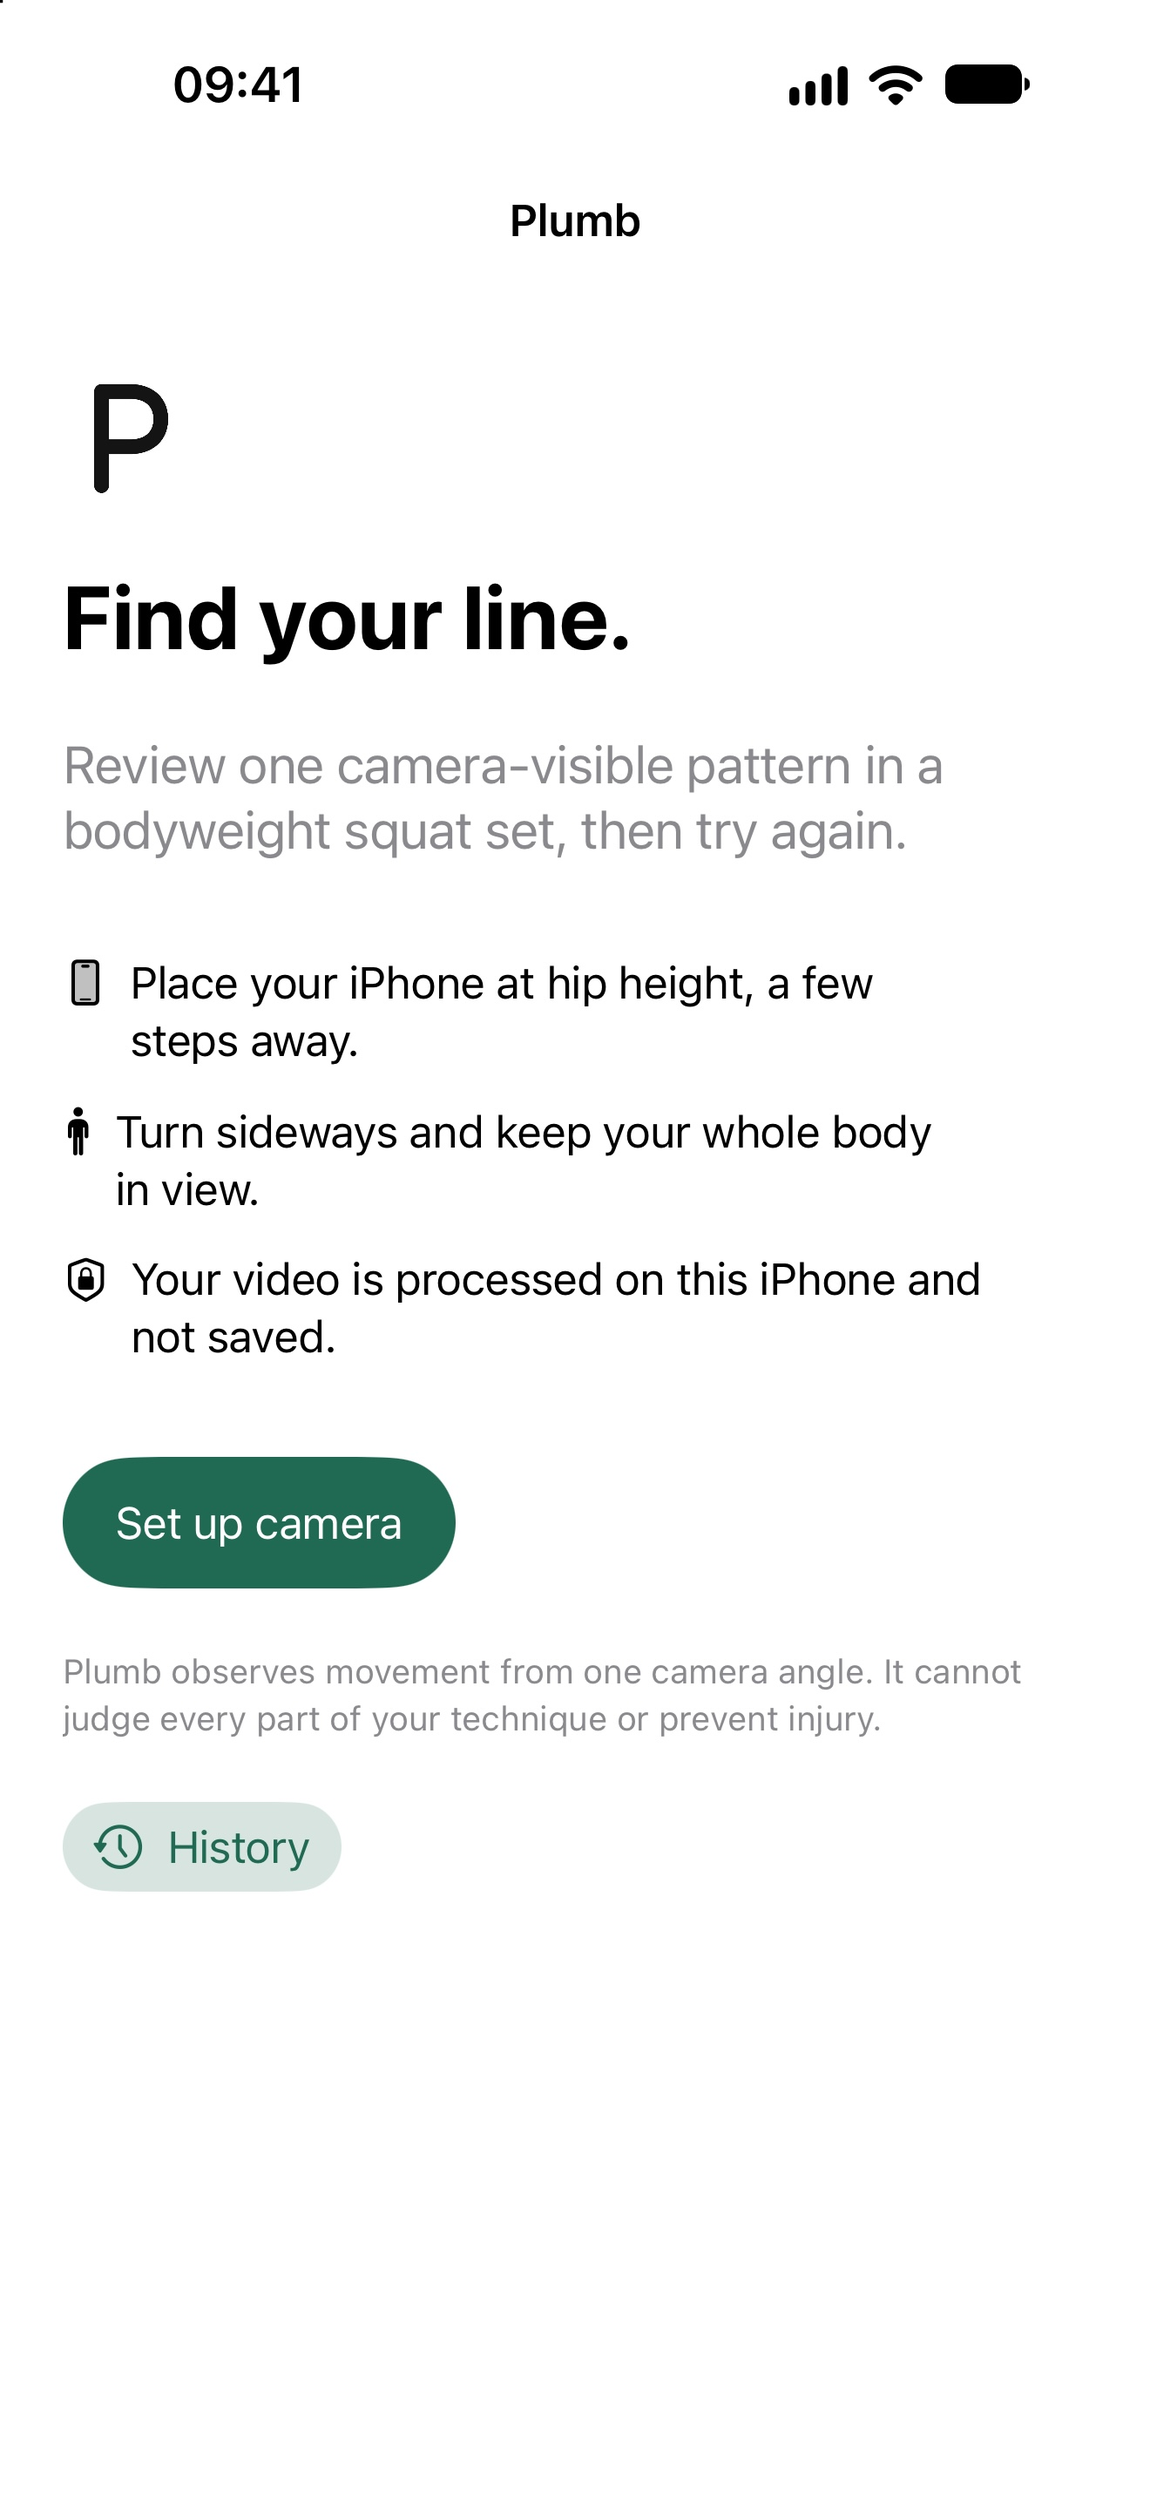
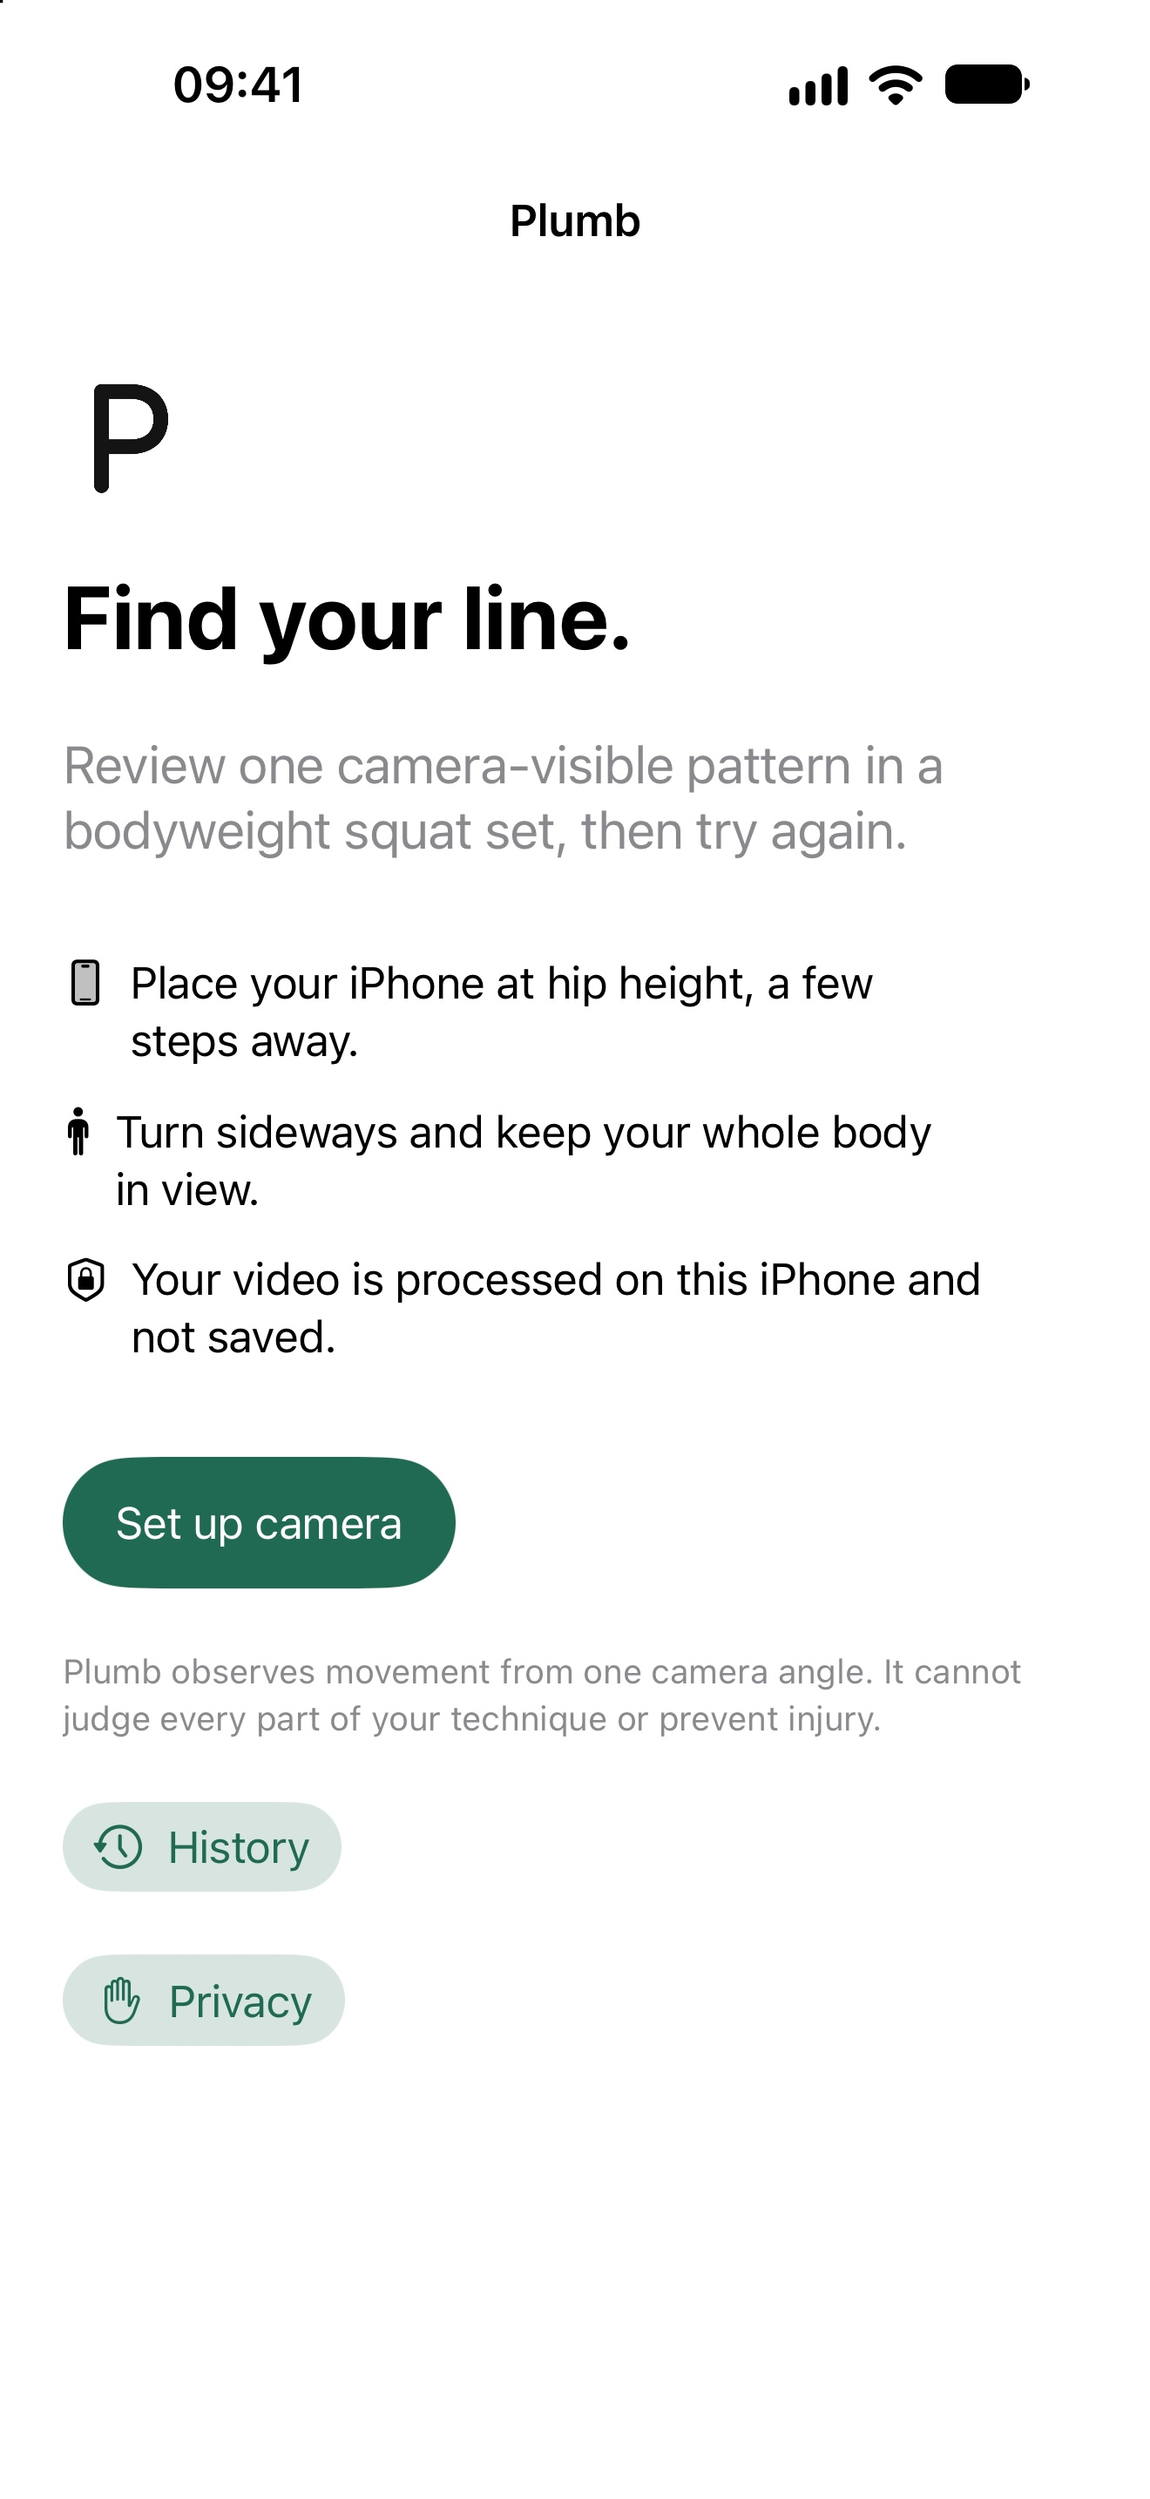
Add in-app privacy summary and App Privacy draft

Changed region(s): [[0.0311, 0.7758, 0.3106, 0.8379]]

diff --git a/Plumb/Plumb/ContentView.swift b/Plumb/Plumb/ContentView.swift
@@ -101,10 +101,34 @@ struct ContentView: View {
                     Label("History", systemImage: "clock.arrow.circlepath")
                 }
                 .buttonStyle(.bordered)
+                NavigationLink {
+                    privacyPage
+                } label: {
+                    Label("Privacy", systemImage: "hand.raised")
+                }
+                .buttonStyle(.bordered)
             }
             .frame(maxWidth: .infinity, alignment: .leading)
             .padding(24)
         }
+    }
+
+    private var privacyPage: some View {
+        List {
+            Section("Camera") {
+                Text("Video is processed on this iPhone and never saved.")
+                Text("Plumb uses the camera to measure a bodyweight squat from the side. Camera frames and pose points are not sent to Plumb.")
+            }
+            Section("Saved results") {
+                Text("Measured set summaries are saved on this iPhone so you can review previous sets.")
+                Text("Saved summaries may be included in your device backup.")
+                Text("Delete saved sessions in History.")
+            }
+            Section("Optional explanation") {
+                Text("On supported iPhones, Apple's on-device model can explain a measured comparison. The camera video is never given to the model.")
+            }
+        }
+        .navigationTitle("Privacy")
     }
 
     private var capture: some View {

diff --git a/Plumb/PlumbUITests/WorkoutFlowUITests.swift b/Plumb/PlumbUITests/WorkoutFlowUITests.swift
@@ -2,6 +2,17 @@ import XCTest
 
 final class WorkoutFlowUITests: XCTestCase {
     @MainActor
+    func testPrivacySummaryIsReachableFromSetup() {
+        let app = XCUIApplication()
+        app.launch()
+        app.buttons["Privacy"].tap()
+        XCTAssertTrue(app.navigationBars["Privacy"].exists)
+        XCTAssertTrue(app.staticTexts["Video is processed on this iPhone and never saved."].exists)
+        XCTAssertTrue(app.staticTexts["Saved summaries may be included in your device backup."].exists)
+        XCTAssertTrue(app.staticTexts["Delete saved sessions in History."].exists)
+    }
+
+    @MainActor
     func testDemoSetShowsMeasuredResultAndRetake() {
         let app = XCUIApplication()
         app.launchArguments.append("-plumb-ui-demo")

diff --git a/docs/release/app-privacy-answers.md b/docs/release/app-privacy-answers.md
@@ -1,0 +1,28 @@
+# Plumb 1.0 App Privacy answers — source-backed draft
+
+**Audited against the 11 October 2026 iPhone source and unsigned archive. Not entered or published in App Store Connect.** Recheck the exact signed upload before the Account Holder, Admin, or App Manager saves and publishes these answers.
+
+## Proposed App Store Connect selection
+
+Choose **“No, we do not collect data from this app”** for the current Plumb 1.0 build, if the final upload retains the data flows below. Apple defines collection as transmitting data off the device so the developer or a third-party partner can access it beyond servicing a request. Apple says on-device-only processing is not collected for this label. This is an inference from [Apple's App Privacy Details definitions](https://developer.apple.com/app-store/app-privacy-details/) and the current code, not a published App Store answer.
+
+| Data | Current handling | Developer access |
+| --- | --- | --- |
+| Camera frames | AVFoundation delivers frames to Vision on the iPhone; no movie or frame file is written | None through the app |
+| Pose points and analysis | Held in memory for the set; used for rep count and one provisional cue | None through the app |
+| Set summaries and feedback | JSON in the app's local Application Support directory; removable in History | None through the app |
+| Optional recap | Apple's Foundation Models receives structured comparison facts on eligible devices; no Plumb server or third-party model endpoint | None through the app |
+| Validation timing | A local result-screen readout only when Xcode launches with `-plumb-validation`; not saved or uploaded | None through the app |
+
+The app currently has no account, analytics, advertising, support form, cloud sync, HealthKit, microphone capture, or third-party SDK. A source search found no `URLSession`, `URLRequest`, Network framework connection, web view, or upload path. The Xcode project has no package dependency or data-sharing entitlement. The unsigned archive contains the app binary and Apple asset catalog without a bundled data-collection SDK.
+
+Local Application Support data may enter an iPhone backup if the person enables backup. Plumb neither operates nor accesses that backup; the [privacy policy draft](privacy-policy.md) explains this. Apple's App Privacy guidance says developers are not responsible for disclosing data collected by Apple itself. Confirm this treatment against the final Apple account configuration before publishing the label.
+
+## Required final checks
+
+1. Inspect the exact signed 1.0 upload for added SDKs, network calls, analytics, crash reporting, remote model use, or changed storage. Change the answer if any developer or third-party partner gains off-device access to fitness, camera, usage, or diagnostic data.
+2. Verify normal and offline physical-iPhone behavior, including the optional Foundation Models fallback. A simulator source audit does not prove physical-device network behavior.
+3. Confirm the public HTTPS privacy-policy URL, publisher name, and support contact. Apple requires a privacy policy URL for iOS even when the app selects “Data Not Collected.” See [Manage App Privacy](https://developer.apple.com/help/app-store-connect/manage-app-information/manage-app-privacy/).
+4. Have the authorized App Store Connect role review the product-page preview and publish the answers only after the uploaded build matches this audit. Record the actual published state in [the submission log](app-store-submission.md).
+
+Separately consented research recordings for product validation are outside the app's 1.0 data flow and must follow the [validation protocol](../validation/squat-v1-protocol.md). If Plumb later uploads clips, syncs history, adds support messaging, or adds analytics, re-audit and update the App Privacy answers before release.

diff --git a/docs/release/app-store-submission.md b/docs/release/app-store-submission.md
@@ -14,15 +14,15 @@
 | Local signing identities | One Apple Development identity is present; no Apple Distribution identity was found on 11 October |
 | Connected physical iPhone | iPhone 16 Pro Max appears in Xcode's device list but was **unavailable** on 11 October |
 | Repository | Public GitHub repository, `main` branch |
-| Test status | 54 iOS 27 simulator tests passed; unsigned iPhone Release build and archive succeeded; physical validation pending |
+| Test status | 55 iOS 27 simulator tests passed; unsigned iPhone Release build and archive succeeded; physical validation pending |
 
 James can purchase or confirm the Apple Developer Program membership. The team must then verify the Account Holder can enter App Store Connect, that the bundle ID belongs to the team, and that distribution signing works. A configured Xcode team ID alone does not establish these conditions.
 
 ## Required before archive/upload
 
 1. Finish the physical iPhone checks and holdout/expert review in [`../validation/squat-v1-protocol.md`](../validation/squat-v1-protocol.md). Narrow any unvalidated claims in the app and listing. Review actual Foundation Models output on an eligible device; if unavailable, keep the deterministic fallback.
-2. Confirm the publisher name and public support email. Host and check public **HTTPS** support and privacy policy pages based on [`support.md`](support.md) and [`privacy-policy.md`](privacy-policy.md). The Markdown drafts alone are not App Store URLs.
-3. Audit the final binary's data flows and complete App Privacy answers. The current code has no app server, third-party SDK, account, analytics, or cloud sync, but the final answer must match the exact uploaded build. Apple requires a privacy policy URL and app privacy responses for iOS: [App privacy help](https://developer.apple.com/help/app-store-connect/manage-app-information/manage-app-privacy).
+2. Confirm the publisher name and public support email. Host and check public **HTTPS** support and privacy policy pages based on [`support.md`](support.md) and [`privacy-policy.md`](privacy-policy.md). The app now has a native Privacy summary on setup; add and verify its link to the final public policy. The Markdown drafts and in-app summary alone are not App Store URLs.
+3. Audit the final binary's data flows and complete App Privacy answers. A [source-backed answer draft](app-privacy-answers.md) proposes “Data Not Collected” for the current build; the final answer must match the exact uploaded binary and account configuration. Apple requires a privacy policy URL and app privacy responses for iOS: [App privacy help](https://developer.apple.com/help/app-store-connect/manage-app-information/manage-app-privacy).
 4. Capture truthful screenshots from the implemented iPhone app. A [setup-screen candidate](screenshots/iphone-18-pro-max-setup.jpg) now exists at an accepted iPhone 18 Pro Max size, with [capture provenance](screenshots/README.md). It was taken from the normal simulator app, not a physical camera run. Final result and comparison screenshots remain pending physical-device validation. Do not pass the labeled synthetic demo feed off as a real camera workout. See [screenshot specifications](https://developer.apple.com/help/app-store-connect/reference/app-information/screenshot-specifications).
 5. Verify a Release build, signing, first-launch permission, denial/recovery, set capture, retake, second set, comparison, local deletion, background interruption, offline behavior, large text, VoiceOver order, and no placeholder claims. The 11 October unsigned archive contains the expected bundle ID, version, camera permission text, and icon assets; an accidentally bundled team Git guide was removed from the app target. The unsigned archive cannot be uploaded as a distribution build.
 

diff --git a/docs/superpowers/plans/2026-10-11-plumb-iphone-squat-mvp.md b/docs/superpowers/plans/2026-10-11-plumb-iphone-squat-mvp.md
@@ -169,8 +169,8 @@ Provisional `SquatRubric.v1` starting values: required joint confidence ≥0.6 o
 **Interfaces:** A release candidate has a stable bundle ID and version/build number, iPhone-only screenshots of real implemented screens, support and privacy URLs, app privacy answers, review notes explaining camera-only analysis and any optional AI wording, and an archived/uploaded build. Account access and signing are external dependencies.
 
 - [ ] Confirm Apple Developer Program membership, App Store Connect role, signing team, bundle ID ownership, and a physical iOS 27 test iPhone early. Xcode team ID is configured, but membership/distribution rights are unconfirmed; James indicated he can purchase the membership. Physical iPhone 16 Pro Max is listed as unavailable to Xcode.
-- [ ] Draft truthful listing copy and capture screenshots only from implemented screens. Listing, support, privacy, and App Review note drafts now exist in `docs/release`; a normal-app setup screenshot has been captured from an iOS 27 iPhone 18 Pro Max simulator. Result/comparison screenshots, public HTTPS URLs, publisher/contact fields, and final App Privacy answers remain open.
-- [ ] Run a Release build and physical-device smoke pass: first launch, permission denied/recovered, set capture, retake, comparison, delete, no-network fallback, and background interruption. An unsigned iPhone Release build and archive succeed, the archive contains expected app metadata/icon assets without team-only documents, and 54 simulator tests pass; physical-device smoke pass remains open.
+- [ ] Draft truthful listing copy and capture screenshots only from implemented screens. Listing, support, privacy, App Review notes, and a source-backed App Privacy answer draft now exist in `docs/release`; a normal-app setup screenshot has been captured from an iOS 27 iPhone 18 Pro Max simulator. Result/comparison screenshots, public HTTPS URLs, publisher/contact fields, and final App Privacy publication remain open.
+- [ ] Run a Release build and physical-device smoke pass: first launch, permission denied/recovered, set capture, retake, comparison, delete, no-network fallback, and background interruption. An unsigned iPhone Release build and archive succeed, the archive contains expected app metadata/icon assets without team-only documents, and 55 simulator tests pass; physical-device smoke pass remains open.
 - [ ] Archive, upload, and select the build in App Store Connect; complete metadata and review notes. Record the actual status: uploaded, ready for review, submitted, or approved. Do not describe an upload as App Review approval. Submission is a team/account action and may require the account holder's credentials.
 
 ## Subsequent plans, after the iPhone gate

diff --git a/docs/release/screenshots/README.md b/docs/release/screenshots/README.md
@@ -1,5 +1,5 @@
 # Plumb App Store screenshot candidates
 
-`iphone-18-pro-max-setup.jpg` is an uncomposited capture of the implemented setup screen from the iPhone 18 Pro Max simulator on iOS 27.0 (11 October 2026). It reflects the app source committed alongside this screenshot. The app was launched normally, without `-plumb-ui-demo`; the status bar was set to 9:41 with full signal and battery for presentation. The JPEG is 1320 × 2868 pixels, has no alpha channel, and has been visually checked at full size. Apple lists this as an accepted large Dynamic Island iPhone screenshot size in its [screenshot specifications](https://developer.apple.com/help/app-store-connect/reference/app-information/screenshot-specifications).
+`iphone-18-pro-max-setup.jpg` is an uncomposited capture of the implemented setup screen, including its History and Privacy links, from the iPhone 18 Pro Max simulator on iOS 27.0 (11 October 2026). It reflects the app source committed alongside this screenshot. The app was launched normally, without `-plumb-ui-demo`; the status bar was set to 9:41 with full signal and battery for presentation. The JPEG is 1320 × 2868 pixels, has no alpha channel, and has been visually checked at full size. Apple lists this as an accepted large Dynamic Island iPhone screenshot size in its [screenshot specifications](https://developer.apple.com/help/app-store-connect/reference/app-information/screenshot-specifications).
 
 This is a **draft candidate**, not evidence of working physical-camera capture. Capture the result and comparison screens from the final implemented release candidate after the physical-device and specialist checks. Do not use the scripted UI demo input or the `-plumb-validation` timing readout in App Store screenshots.

diff --git a/README.md b/README.md
@@ -16,6 +16,7 @@ Project for the October 2026 Build Challenge: Unaite, MWM, Apple & ⌘+F.
 - [`docs/validation/squat-v1-protocol.md`](docs/validation/squat-v1-protocol.md): consent, physical-device test, annotation, and claim gates
 - [`docs/validation/squat-v1-results.md`](docs/validation/squat-v1-results.md): actual results status; no real sets collected yet
 - [`docs/release/app-store-submission.md`](docs/release/app-store-submission.md): release checks and App Store Connect status
+- [`docs/release/app-privacy-answers.md`](docs/release/app-privacy-answers.md): source-backed draft of App Store privacy answers for the current iPhone build
 - [`justification.md`](justification.md): why a focused camera technique companion is worth testing
 - [`market research.md`](market%20research.md): primary-source alternatives and customer research plan
 - [`pitch.md`](pitch.md): three-minute story, demo path, and claim boundaries

diff --git a/docs/validation/squat-v1-results.md b/docs/validation/squat-v1-results.md
@@ -1,6 +1,6 @@
 # Squat v1 validation results
 
-**Status: not started. Updated 11 October 2026.** No consenting participant sets or qualified specialist reviews have been recorded. The current 54-test iOS 27 simulator pass verifies implementation behavior, not real-camera accuracy.
+**Status: not started. Updated 11 October 2026.** No consenting participant sets or qualified specialist reviews have been recorded. The current 55-test iOS 27 simulator pass verifies implementation behavior, not real-camera accuracy.
 
 | Evidence | Current state |
 | --- | --- |

diff --git a/docs/release/privacy-policy.md b/docs/release/privacy-policy.md
@@ -4,6 +4,7 @@
 
 - **Publisher:** [legal publisher name pending]
 - **Contact:** [public support email pending]
+
 **Effective date:** [publication date pending]
 
 Plumb is an iPhone workout companion for reviewing a bodyweight squat from a side view. It works without an account.
